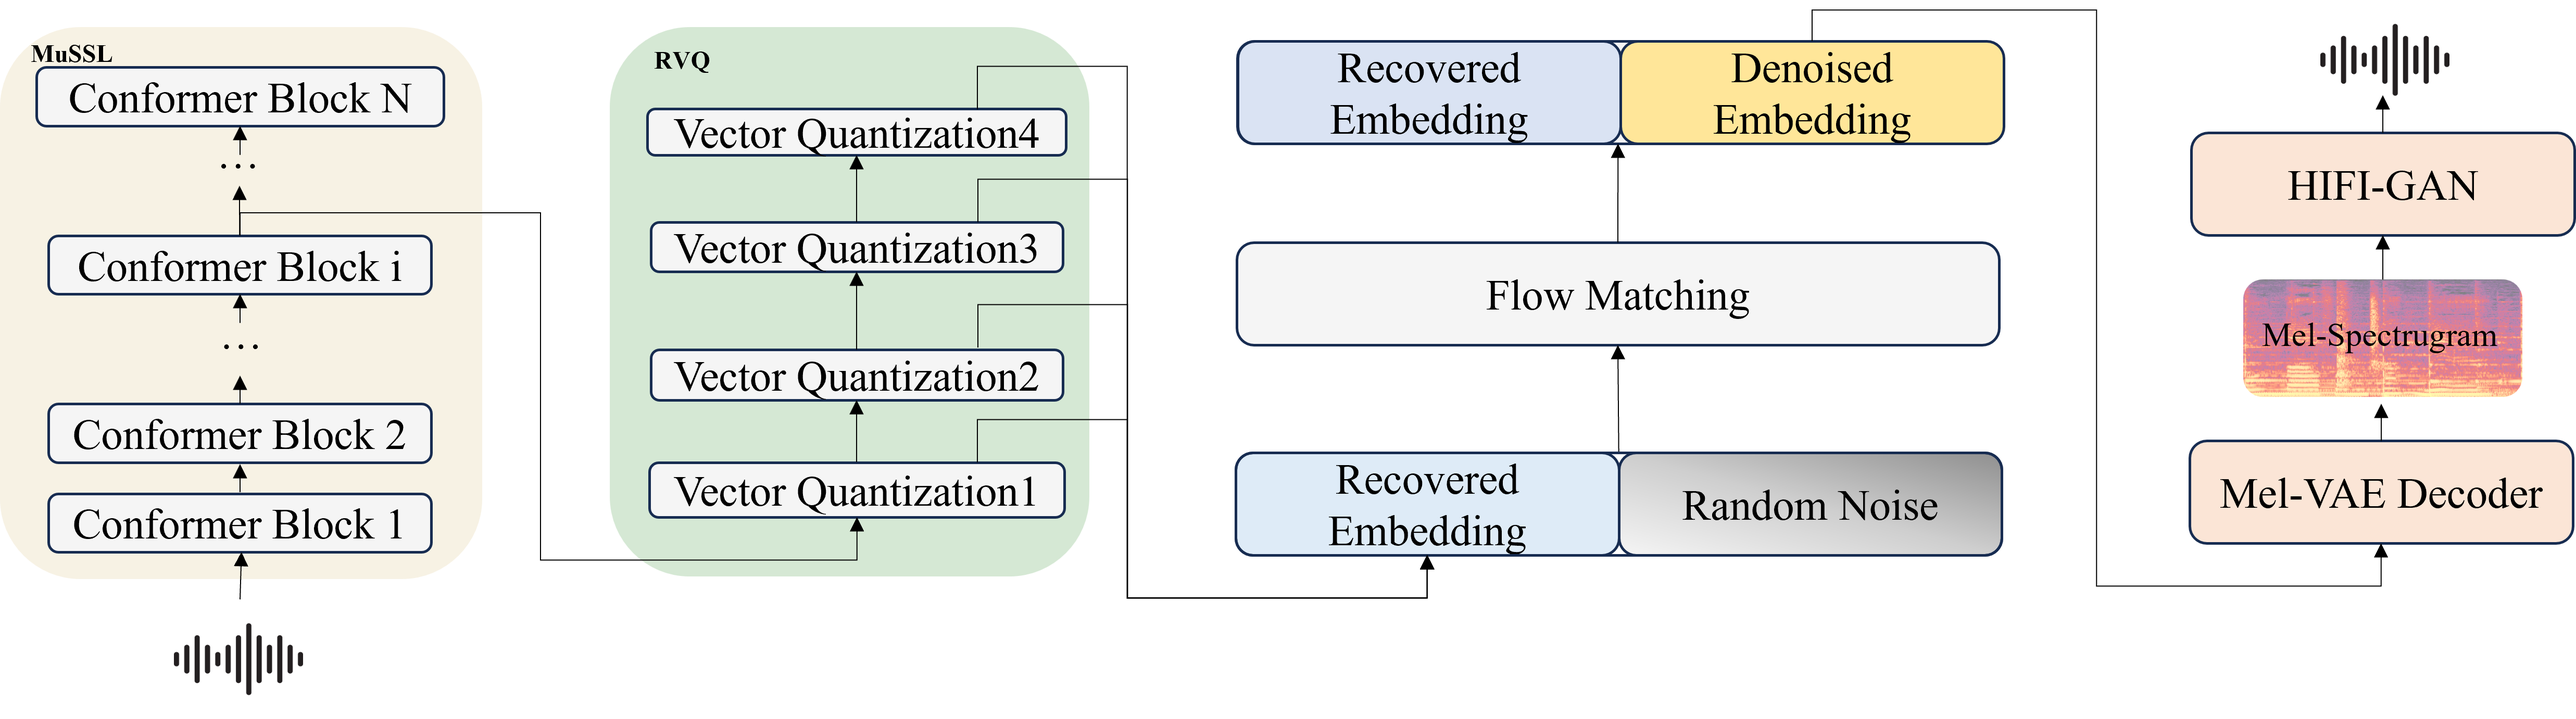
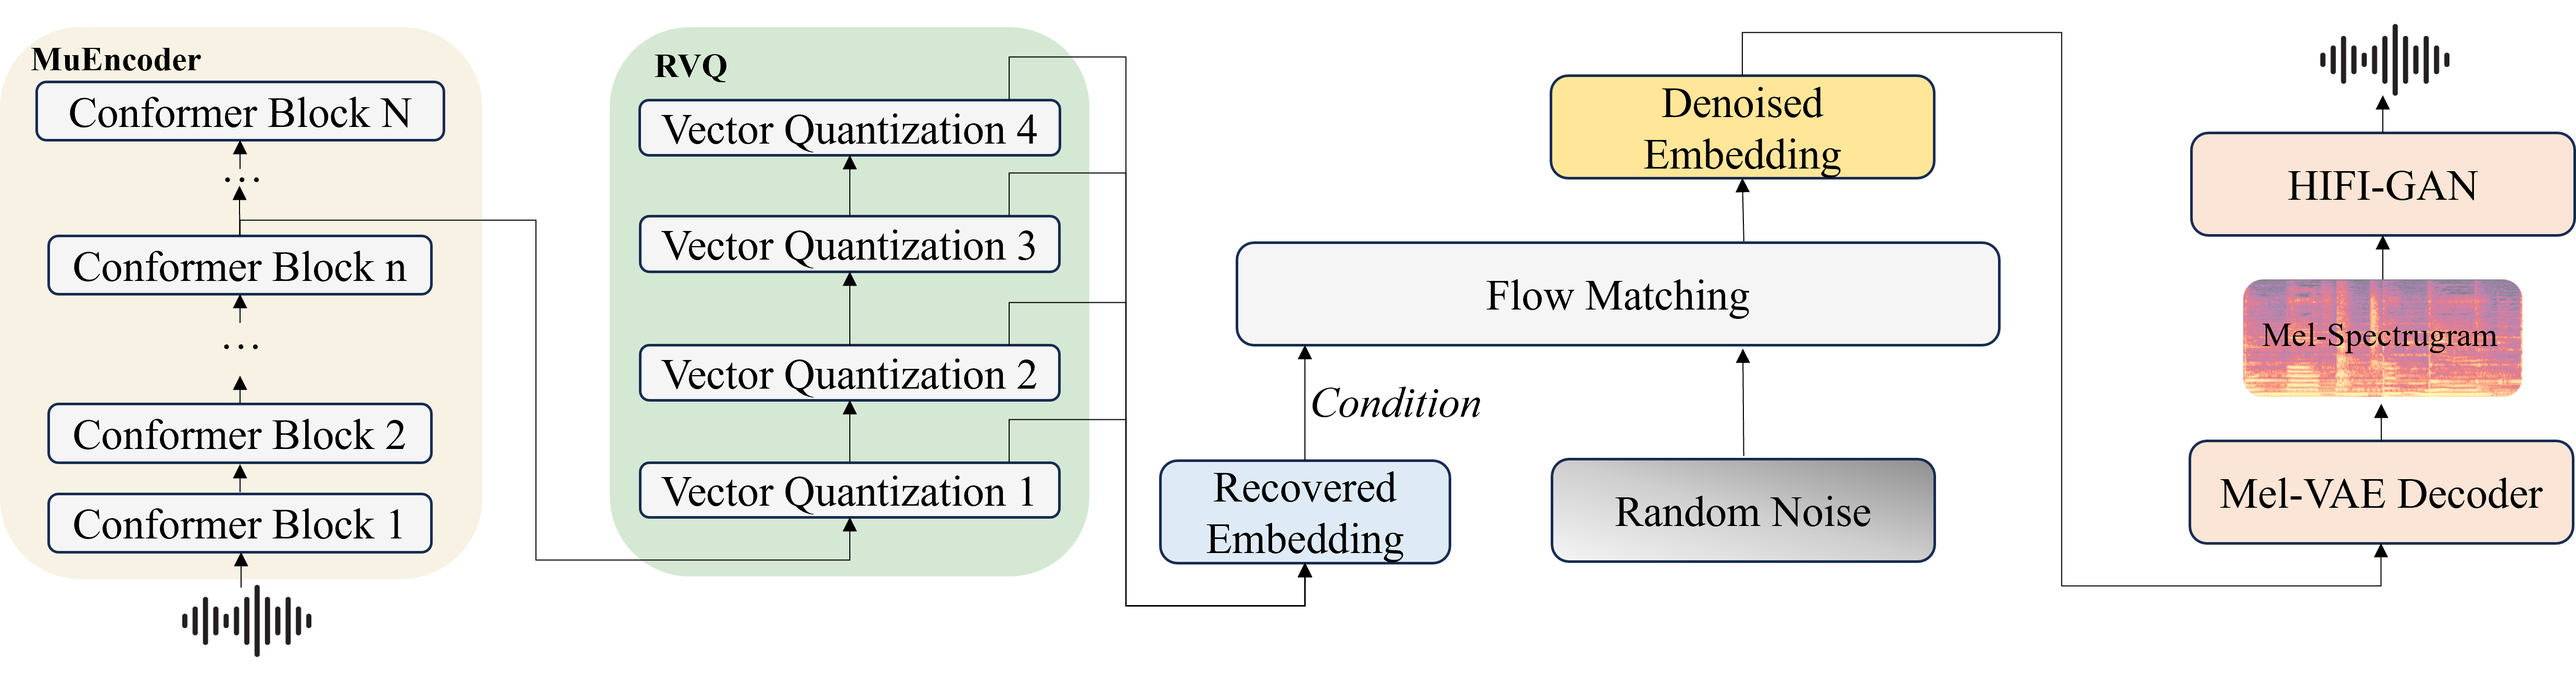
update figure

diff --git a/index.html b/index.html
@@ -76,8 +76,7 @@
         <h2 class="title is-3">TL;DR</h2>
         <div class="content has-text-justified">
           <p>
-            Music codecs are a vital aspect of audio codec research, and ultra low-bitrate compression holds significant importance for music transmission and generation. Due to the complexity of music backgrounds and the richness of vocals, solely relying on semantic or acoustic information for modeling cannot effectively reconstruct music with both vocals and backgrounds. To address this issue, we propose the state-of-the-art MuCodec model, which provides the lowest bitrate and best reconstruction performance. MuCodec utilizes MuSSL for extracting both acoustic and semantic features of music, then discretizes them using RVQ and obtains Mel-VAE representations through flow-matching. Finally, the music is reconstructed via a pre-trained MEL-VAE decoder and HiFiGAN. MuCodec can achieve the highest level of music compression and reconstruction tasks at a bitrate of 0.35 kbps.
-          </p>
+            Music codecs are a vital aspect of audio codec research, and ultra low-bitrate compression holds significant importance for music transmission and generation. Due to the complexity of music backgrounds and the richness of vocals, solely relying on modeling semantic or acoustic information cannot effectively reconstruct music with both vocals and backgrounds. To address this issue, we propose MuCodec, specifically targeting music compression and reconstruction tasks at ultra low bitrates. MuCodec employs MuEncoder to extract both acoustic and semantic features, discretizes them with RVQ, and obtains Mel-VAE features via flow-matching. The music is then reconstructed using a pre-trained MEL-VAE decoder and HiFi-GAN.  MuCodec can reconstruct high-fidelity music at ultra low (0.35kbps) or high bitrates (1.35kbps), achieving the best results to date in both subjective and objective metrics.          </p>
         </div>
 
       </div>
